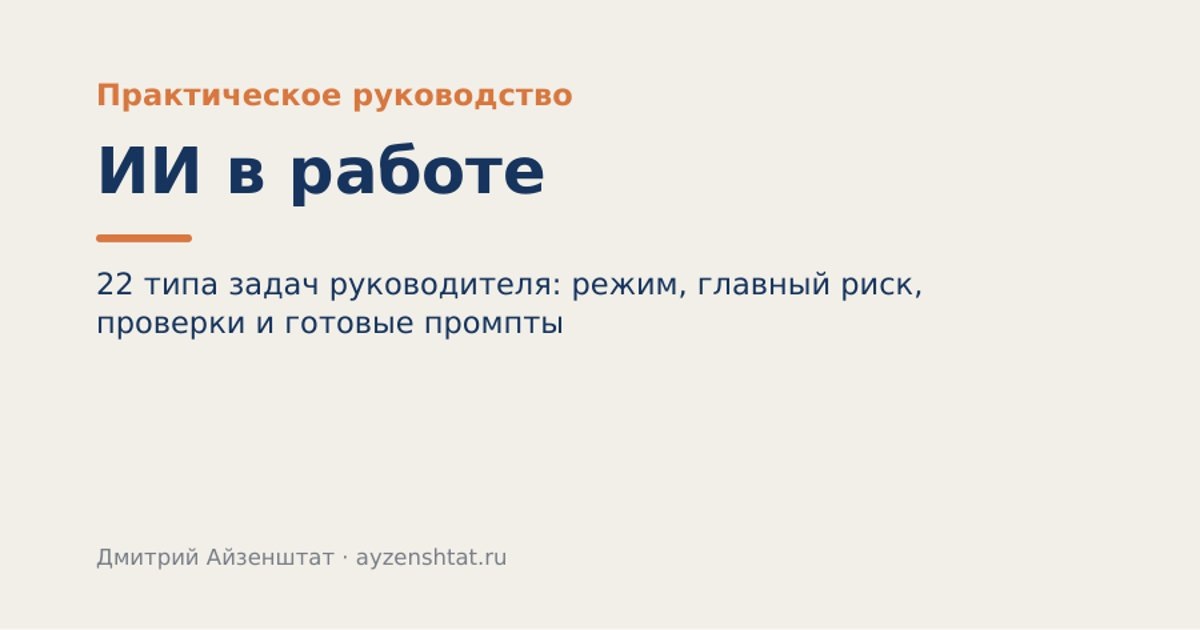
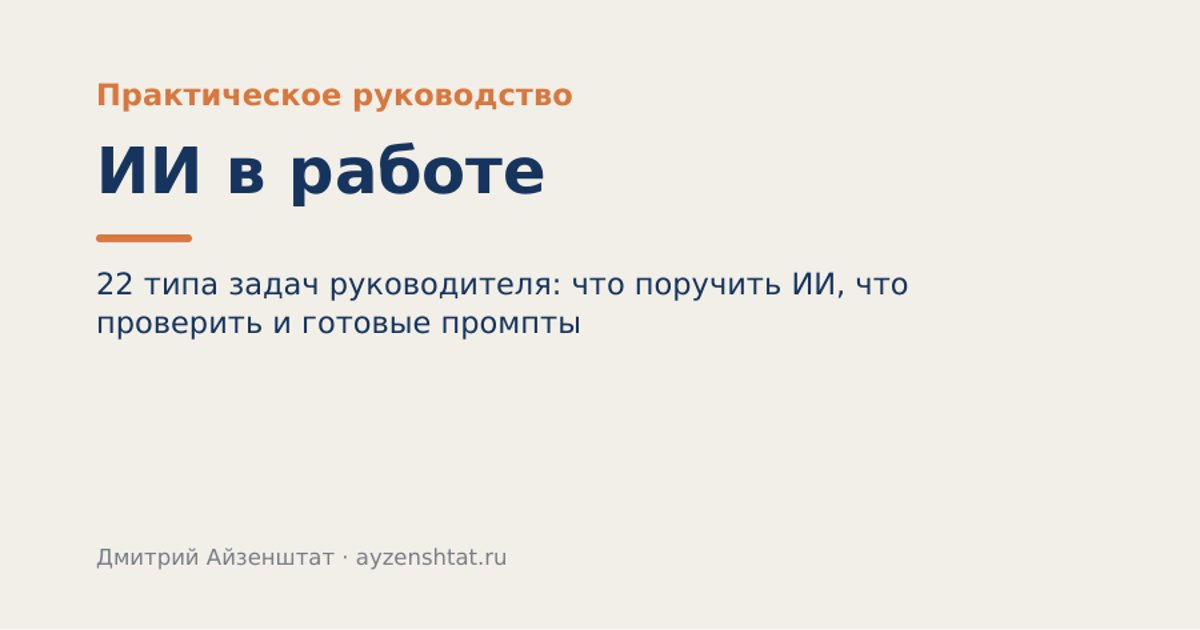
Add files via upload

Changed region(s): [[0.1542, 0.4222, 0.7708, 0.5429]]

diff --git a/public/library/ai/index.html b/public/library/ai/index.html
@@ -4,14 +4,14 @@
 <meta charset="UTF-8">
 <meta name="viewport" content="width=device-width, initial-scale=1.0">
 <title>ИИ в работе: практическое руководство</title>
-<meta name="description" content="22 типа рабочих задач руководителя и как решать их с ИИ: режим, главный риск, проверки и готовые промпты с кнопкой «Копировать».">
+<meta name="description" content="22 типа рабочих задач руководителя и как решать их с ИИ: что поручить, что проверить и готовые промпты с кнопкой «Копировать».">
 <meta name="author" content="Дмитрий Айзенштат">
 <meta name="robots" content="noindex,follow">
 <link rel="canonical" href="https://ayzenshtat.ru/library/ai/">
 <meta property="og:type" content="article">
 <meta property="og:site_name" content="Ayzenshtat.ru">
 <meta property="og:title" content="ИИ в работе: практическое руководство">
-<meta property="og:description" content="22 типа рабочих задач руководителя и как решать их с ИИ: режим, главный риск, проверки и готовые промпты с кнопкой «Копировать».">
+<meta property="og:description" content="22 типа рабочих задач руководителя и как решать их с ИИ: что поручить, что проверить и готовые промпты с кнопкой «Копировать».">
 <meta property="og:url" content="https://ayzenshtat.ru/library/ai/">
 <meta property="og:image" content="https://ayzenshtat.ru/library/ai/og.jpg">
 <meta property="og:image:width" content="1200">
@@ -20,7 +20,7 @@
 <meta property="og:image:alt" content="ИИ в работе: практическое руководство">
 <meta name="twitter:card" content="summary_large_image">
 <meta name="twitter:title" content="ИИ в работе: практическое руководство">
-<meta name="twitter:description" content="22 типа рабочих задач руководителя и как решать их с ИИ: режим, главный риск, проверки и готовые промпты с кнопкой «Копировать».">
+<meta name="twitter:description" content="22 типа рабочих задач руководителя и как решать их с ИИ: что поручить, что проверить и готовые промпты с кнопкой «Копировать».">
 <meta name="twitter:image" content="https://ayzenshtat.ru/library/ai/og.jpg">
 <meta property="og:locale" content="ru_RU">
 <meta property="article:published_time" content="2026-11-19">
@@ -59,7 +59,7 @@ if(!window.__ymOff){
  "@context": "https://schema.org",
  "@type": "Article",
  "headline": "ИИ в работе: практическое руководство",
- "description": "22 типа рабочих задач руководителя и как решать их с ИИ: режим, главный риск, проверки и готовые промпты с кнопкой «Копировать».",
+ "description": "22 типа рабочих задач руководителя и как решать их с ИИ: что поручить, что проверить и готовые промпты с кнопкой «Копировать».",
  "author": {
   "@type": "Person",
   "@id": "https://ayzenshtat.ru/#person",

diff --git a/public/library/ai/pisma-i-teksty/index.html b/public/library/ai/pisma-i-teksty/index.html
@@ -319,7 +319,7 @@ th,td{border-bottom:1px solid #ddd;padding:8px 7px;text-align:left;vertical-alig
 <li>прочитайте текст вслух: где вы бы так не сказали, правьте;</li>
 <li>если текст мог написать кто угодно, добавьте свою позицию и конкретику.</li>
 </ul>
-<p>Общие проверки — в «Основах».</p>
+<p>Что проверять в любой задаче — в «<a href="/library/ai/osnovy/">Основах</a>».</p>
 <h2 id="gotovye-prompty">Готовые промпты</h2><p class="prompt-note">В квадратных скобках — ваши данные. Нажмите «Копировать», вставьте промпт в чат с ИИ и заполните скобки.</p>
 <p class="prompt-name" id="p-chernovik-po-tezisam"><strong>Черновик по тезисам</strong></p>
 <div class="prompt"><button class="copy" type="button" aria-label="Скопировать промпт">Копировать</button><pre>Ты — деловой редактор. Помоги мне написать <span class="fld">[тип текста: письмо / записка / пост]</span> для <span class="fld">[адресат и его отношение к теме]</span>.

diff --git a/public/library/ai/promty/index.html b/public/library/ai/promty/index.html
@@ -301,7 +301,7 @@ th,td{border-bottom:1px solid #ddd;padding:8px 7px;text-align:left;vertical-alig
 <p>Если задача новая и плохо сформулирована, удобнее советчик: ИИ расспрашивает о задаче, аудитории и критериях успеха и только потом собирает промпт.</p>
 <p>Готовый промпт для повторяющейся задачи становится автоматом: вы подставляете данные, остальное ИИ делает сам.</p>
 <h2 id="iz-chego-sostoit-rabochiy-prompt">Из чего состоит рабочий промпт</h2>
-<p>Основа — три установки и шаблон запроса из «Основ». В рабочем промпте обычно есть:</p>
+<p>Основа — три установки и шаблон запроса из «<a href="/library/ai/osnovy/">Основ</a>». В рабочем промпте обычно есть:</p>
 <ul>
 <li>роль и контекст;</li>
 <li>задача;</li>

diff --git a/scripts/gen_site.py b/scripts/gen_site.py
@@ -128,8 +128,8 @@ def link_blocks(h, self_key=None):
             if not b:   # короткие упоминания: «Отчёты и дашборды» и т.п.
                 cand = [x for x in blocks if x["title"].startswith(name)]
                 b = cand[0] if len(cand) == 1 else None
-            if name == "Основы":
-                return f'«<a href="{SECTION}osnovy/">Основы</a>»'
+            if re.fullmatch(r"Основ[а-я]*", name):
+                return f'«<a href="{SECTION}osnovy/">{name}</a>»'
             if not b or b["key"] == self_key:
                 return m.group(0)
             return f'«<a href="{SECTION}{b["key"]}/">{name}</a>»'
@@ -531,7 +531,7 @@ body = (f'<p>{md(lead)[3:-4]}</p>'
                         ("/library/owner/manual-control-exit/", "Выход из ручного управления", "какие варианты есть у собственника")])
         + search_js)
 out_pages["index"] = (SECTION, page(SECTION, TITLE,
-    "22 типа рабочих задач руководителя и как решать их с ИИ: режим, главный риск, проверки и готовые промпты с кнопкой «Копировать».",
+    "22 типа рабочих задач руководителя и как решать их с ИИ: что поручить, что проверить и готовые промпты с кнопкой «Копировать».",
     "ИИ в работе", ["искусственный интеллект", "промпты", "руководитель"],
     [("ИИ в работе", SECTION)], body, "ИИ в работе, ИИ для руководителя, промпты для руководителя, ChatGPT, Claude", wide=True),
     dict(title="ИИ в работе", sub="Практическое руководство · 22 типа задач"))

diff --git a/scripts/gen_og.py b/scripts/gen_og.py
@@ -21,7 +21,7 @@ import html as H
 for k, (path, og) in pages.items():
     t, sub, kick = og["title"], og["sub"], "ИИ в работе"
     if k == "index":
-        kick, t, sub = "Практическое руководство", "ИИ в работе", "22 типа задач руководителя: режим, главный риск, проверки и готовые промпты"
+        kick, t, sub = "Практическое руководство", "ИИ в работе", "22 типа задач руководителя: что поручить ИИ, что проверить и готовые промпты"
     fs = 64 if len(t) <= 52 else 50
     num = sub.split(" ")[1] if sub.startswith("Блок") else ""
     doc = TPL % dict(title=H.escape(t), sub=H.escape(sub), fs=fs, num=num, kick=kick)

diff --git a/src/ИИ в работе - редактура.md b/src/ИИ в работе - редактура.md
@@ -172,7 +172,7 @@
 - прочитайте текст вслух: где вы бы так не сказали, правьте;
 - если текст мог написать кто угодно, добавьте свою позицию и конкретику.
 
-Общие проверки — в «Основах».
+Что проверять в любой задаче — в «Основах».
 
 ### Готовые промпты
 
